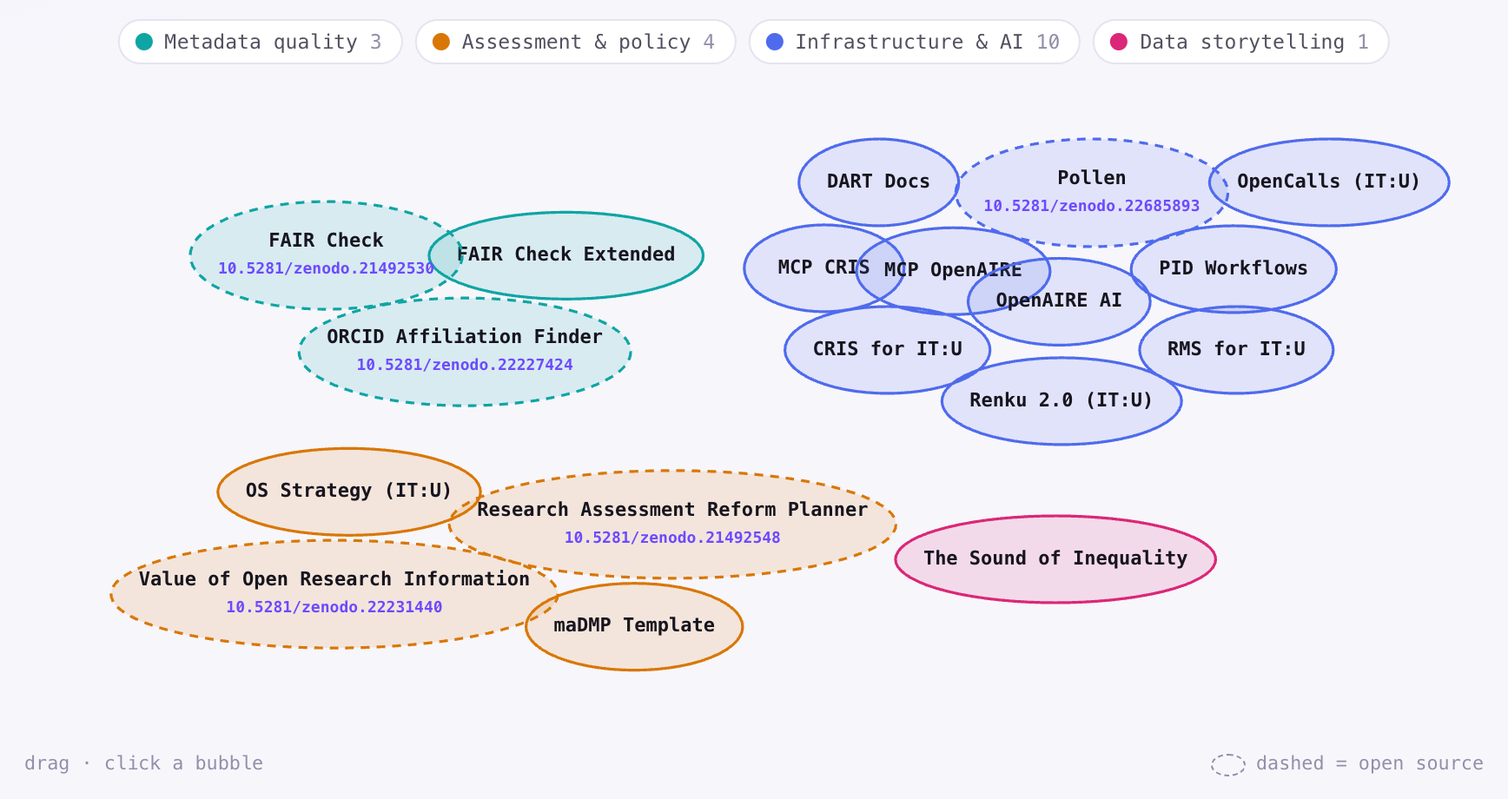
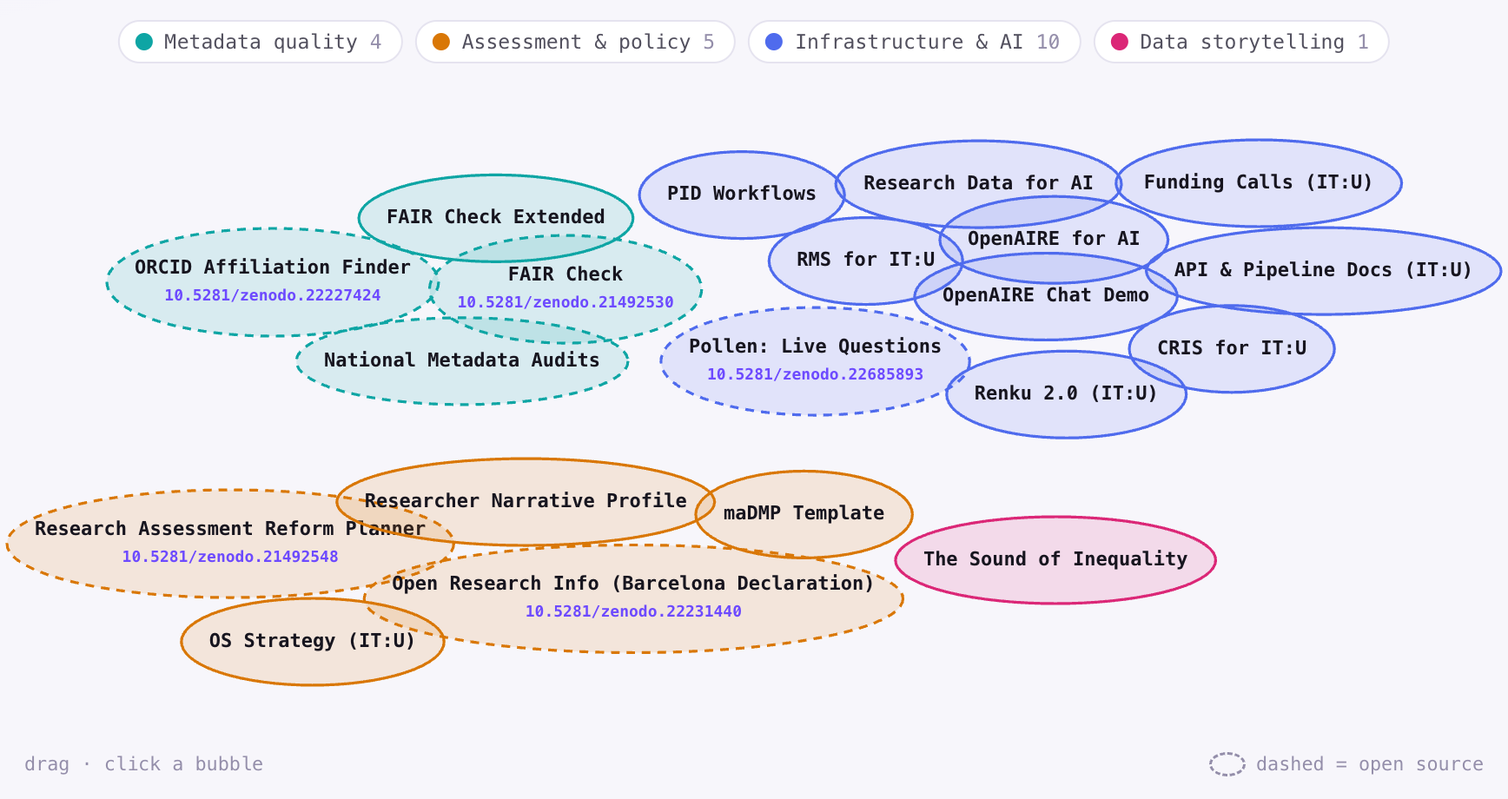
Tool descriptions checked claim by claim: orcid-adoption at 120 institutions; retraction figures as Retraction Watch flags; adapters, not any REST API; OpenAIRE product count; Sound of Inequality is about noise; Renku, DART and planner wording; cloud counts and screenshots

diff --git a/hub.js b/hub.js
@@ -31,22 +31,22 @@ const TAB_GROUPS={
 };
 const TOPICS = {
   metadata:{v:"--t-metadata", en:"Metadata quality", de:"Metadatenqualität", es:"Calidad de metadatos"},
-  assessment:{v:"--t-assessment", en:"Assessment & policy", de:"Bewertung & Politik", es:"Evaluación y política"},
+  assessment:{v:"--t-assessment", en:"Assessment & policy", de:"Bewertung & Forschungspolitik", es:"Evaluación y política"},
   infra:{v:"--t-infra", en:"Infrastructure & AI", de:"Infrastruktur & KI", es:"Infraestructura e IA"},
   story:{v:"--t-story", en:"Data storytelling", de:"Daten-Storytelling", es:"Narrativa de datos"},
 };
 const UI = {
-  en:{nav_menu:"Menu",nav_close:"Close menu",nav_sections:"Sections",cv:"Full CV →", apps_h:"Tools & experiments", apps_lead:"A cloud of live tools, grouped by topic. Drag them around; click one to open it.",
+  en:{nav_menu:"Menu",nav_close:"Close menu",nav_sections:"Sections",cv:"Full CV →", apps_h:"Tools & experiments", apps_lead:"Tools and projects, grouped by topic. Drag them around; click one for its description and, where there is one, its link.",
     grp_out_h:"Publications & talks", grp_path_h:"Background",
     hint:"drag · click a bubble", openmark:"dashed = open source", 
     by:"Built by", lic:"MIT-licensed, open source", src:"Source on GitHub",
     built:"A curated view of the same data behind the CV", open:"Open", nolink:"No public URL", list:"List", cloud:"Cloud"},
-  de:{nav_menu:"Menü",nav_close:"Menü schließen",nav_sections:"Abschnitte",cv:"Vollständiger Lebenslauf →", apps_h:"Werkzeuge & Experimente", apps_lead:"Eine Wolke aktiver Werkzeuge, nach Thema gruppiert. Ziehen; zum Öffnen klicken.",
+  de:{nav_menu:"Menü",nav_close:"Menü schließen",nav_sections:"Abschnitte",cv:"Vollständiger Lebenslauf →", apps_h:"Werkzeuge & Experimente", apps_lead:"Werkzeuge und Projekte, nach Thema gruppiert. Ziehen; anklicken für Beschreibung und, falls vorhanden, Link.",
     grp_out_h:"Publikationen & Vorträge", grp_path_h:"Werdegang",
     hint:"ziehen · Blase anklicken", openmark:"gestrichelt = quelloffen", 
     by:"Erstellt von", lic:"MIT-Lizenz, quelloffen", src:"Quellcode auf GitHub",
     built:"Eine kuratierte Ansicht derselben CV-Daten", open:"Öffnen", nolink:"Keine öffentliche URL", list:"Liste", cloud:"Wolke"},
-  es:{nav_menu:"Menú",nav_close:"Cerrar menú",nav_sections:"Secciones",cv:"CV completo →", apps_h:"Herramientas y experimentos", apps_lead:"Una nube de herramientas vivas, agrupadas por tópico. Arrástralas; haz clic para abrir.",
+  es:{nav_menu:"Menú",nav_close:"Cerrar menú",nav_sections:"Secciones",cv:"CV completo →", apps_h:"Herramientas y experimentos", apps_lead:"Herramientas y proyectos, agrupados por tema. Arrástralos; haz clic en uno para ver su descripción y, si lo tiene, su enlace.",
     grp_out_h:"Publicaciones y charlas", grp_path_h:"Trayectoria",
     hint:"arrastra · haz clic en una burbuja", openmark:"discontinuo = código abierto", 
     by:"Hecho por", lic:"Licencia MIT, código abierto", src:"Código en GitHub",

diff --git a/CV.de.md b/CV.de.md
@@ -194,12 +194,12 @@ Alle Werkzeuge und Dashboards, mit Quellen und Lizenzen: [rijdho.github.io/metau
 ### [Metaudits: Audits of Research Metadata](https://rijdho.github.io/metaudits-home/)
 *Active · 2026 · DataCite, Crossref, ORCID, OpenAlex*
 
-Eine Familie von Dashboards, die die Metadaten prüfen, die Forschung in den Registern hinterlässt, die sie durchläuft, alle über eine Startseite erreichbar: After Retraction (wie 60.921 zurückgezogene Artikel weiter zitiert werden), Debris with DOIs (Systemdateien, die in DataCite als Forschung registriert sind), Publisher Gap (was 14 Verlage bei Crossref hinterlegen und was OpenAlex ergänzt), Empty Accounts (Vollständigkeit von ORCID-Profilen an 95 Einrichtungen), SciELO Chile in Crossref, Beyond Articles (chilenische Ergebnisse, die keine Artikel sind) sowie nationale Prüfungen für Österreich und die Niederlande.
+Eine Familie von Dashboards, die die Metadaten prüfen, die Forschung in den Registern hinterlässt, die sie durchläuft, alle über eine Startseite erreichbar: After Retraction (Zitate auf 60.921 von Retraction Watch markierte Arbeiten, 46,9 % davon nach der Markierung), Debris with DOIs (Systemdateien, die in DataCite als Forschung registriert sind), Publisher Gap (was 14 Verlage bei Crossref hinterlegen und was OpenAlex ergänzt), ORCID-Profile an Mitglieds- und Nichtmitgliedseinrichtungen (Profilvollständigkeit an 120 Einrichtungen), SciELO Chile in Crossref, Beyond Articles (chilenische Ergebnisse, die keine Artikel sind) sowie nationale Prüfungen für Österreich und die Niederlande.
 
 ### [FAIR Metadata Check (Extended): FAIR Scoring for Any Repository](https://metaudits.rijdho.org/repo-metaudits/)
 *Active · 2026 · FAIR, OAI-PMH, DataCite, Custom API*
 
-Bewertet die Metadatenqualität digitaler Repositorien anhand der FAIR-Prinzipien. Das Werkzeug verbindet sich mit OAI-PMH-Endpunkten, DataCite-Datensätzen oder beliebigen REST-APIs (CSW, STAC, CKAN und weitere), erntet Metadaten und führt eine strukturierte Bewertung über 14 Unterprinzipien durch. Es klassifiziert persistente Identifikatoren, erkennt Lizenztypen, validiert kontrollierte Vokabulare (DCMI, ISO 639) und prüft die Einhaltung von Community-Standards. Enthält priorisierte Empfehlungen, exportierbare Berichte (CSV, JSON, TXT) und interaktive Visualisierungen der Repositoriumsstruktur. Die FAIR-Bewertungslogik läuft serverseitig auf Cloudflare Workers.
+Bewertet die Metadatenqualität digitaler Repositorien anhand der FAIR-Prinzipien. Das Werkzeug verbindet sich mit OAI-PMH-Endpunkten, DataCite-Datensätzen oder REST-APIs, für die es einen Adapter hat (STAC, CKAN, Dataverse, Copernicus CSW und weitere), erntet Metadaten und führt eine strukturierte Bewertung über 14 Unterprinzipien durch. Es klassifiziert persistente Identifikatoren, erkennt Lizenztypen, validiert kontrollierte Vokabulare (DCMI, ISO 639) und prüft die Einhaltung von Community-Standards. Enthält priorisierte Empfehlungen, exportierbare Berichte (CSV, JSON, TXT) und interaktive Visualisierungen der Repositoriumsstruktur. Die FAIR-Bewertungslogik läuft serverseitig auf Cloudflare Workers.
 
 ### [MCP CRIS Live](https://hub.docker.com/r/rijdho/mcp-cris-live)
 *Active · 2026 · MCP, Docker, Node.js, ORCID*
@@ -209,7 +209,7 @@ MCP-Server für Forschungsdaten in Echtzeit. Bietet Live-Zugriff auf maßgeblich
 ### [MCP CRIS Live: OpenAIRE](https://hub.docker.com/r/rijdho/mcp-cris-live-openaire)
 *Active · 2026 · MCP, Docker, Node.js, OpenAIRE*
 
-MCP-Server, der die OpenAIRE-Graph-API (über 100 Mio. offen zugängliche Forschungsergebnisse) für KI-Assistenten bereitstellt. Bietet 14 Werkzeuge zur Suche nach Publikationen, Datensätzen, Software, Organisationen, Projekten und Personen. Dockerisierter Node.js-Server mit In-Memory-Cache, Rate-Limiting und Wiederholungslogik. Als Ergänzung zu MCP CRIS Live mit Fokus auf Open-Science-Infrastruktur entwickelt.
+MCP-Server, der die OpenAIRE-Graph-API (über 100 Mio. Forschungsergebnisse) für KI-Assistenten bereitstellt. Bietet 14 Werkzeuge zur Suche nach Publikationen, Datensätzen, Software, Organisationen, Projekten und Personen. Dockerisierter Node.js-Server mit In-Memory-Cache, Rate-Limiting und Wiederholungslogik. Als Ergänzung zu MCP CRIS Live mit Fokus auf Open-Science-Infrastruktur entwickelt.
 
 ### OpenAIRE Research Assistant: Demo
 *Active · 2026 · Cloudflare Workers AI, LLM, Agentic AI, OpenAIRE*
@@ -217,9 +217,9 @@ MCP-Server, der die OpenAIRE-Graph-API (über 100 Mio. offen zugängliche Forsch
 Chat-Oberfläche, in der Cloudflare Workers AI (Llama 3.1 8B) die OpenAIRE-MCP-Werkzeuge in einer agentischen Schleife nutzt, um Forschungsfragen in natürlicher Sprache zu beantworten. Das Sprachmodell entscheidet, welche Werkzeuge aufgerufen werden, führt die OpenAIRE-Suchen aus und fasst die Ergebnisse lesbar zusammen. Vollständig auf kostenloser Cloudflare-Infrastruktur betrieben (Pages + Workers AI).
 
 ### [The Sound of Inequality: Data Disparities as Audio](https://sound-inequality.rijdho.org/)
-*Active · 2026 · Sonification, Data Viz, R, Accessibility*
+*Active · 2026 · Sonification, Data Viz, Accessibility*
 
-Sonifikationsprojekt, das Muster von Datenungleichheit hörbar macht. Es überführt statistische Disparitäten in Klangkompositionen, um Daten über die auditive Wahrnehmung zugänglich zu machen.
+Interaktiver Globus der Ungleichheit bei der Lärmbelastung in 117 Städten: Lärmpegel nach Tageszeit, ein Referenzklang, der auf den gemessenen Pegel jedes Ortes synthetisiert wird, Live-Audiostreams, wo vorhanden, und von Besucherinnen und Besuchern hinzugefügte Orte.
 
 ### PID Traceability Workflows
 *Active · 2025 · PIDs, Research Infrastructure, Python, API Integration*
@@ -254,12 +254,12 @@ Maschinenlesbare Datenmanagementplan-Vorlage mit gestuften Feldern und Horizon-E
 ### Renku 2.0 Deployment (IT:U)
 *Active · 2026 · Renku, Kubernetes, k3s, Podman*
 
-Installation von Renku 2.0 für reproduzierbare Rechenumgebungen, auf zwei Wegen statt einem: k3s mit gebündeltem containerd, wo die institutionelle VM es zulässt, und ein kind-Cluster mit Podman-Containern als Knoten, wo nicht. Renku wird als Helm-Chart ausgeliefert und nicht als Image, daher ist die Wahl dessen, was den Single-Node-Cluster bereitstellt, die Entscheidung, die vor der Bereitstellung der Maschine fallen muss, und sie ist neben den Bootstrap-Skripten entsprechend dokumentiert.
+Installation von Renku 2.0 für reproduzierbare Rechenumgebungen auf der institutionellen VM mit k3s und gebündeltem containerd, mit einer geskripteten Alternative (ein kind-Cluster mit Podman-Containern als Knoten), wo k3s nicht zulässig ist. Renku wird als Helm-Chart ausgeliefert und nicht als Image, daher ist die Wahl dessen, was den Single-Node-Cluster bereitstellt, die Entscheidung, die vor der Bereitstellung der Maschine fallen muss, und sie ist neben den Bootstrap-Skripten entsprechend dokumentiert.
 
 ### DART Documentation Generators
 *Active · 2026 · Static site generator, Python, OpenAPI, n8n*
 
-Zwei Generatoren, die je einen Quellordner pro Eintrag in eine einzige, in sich geschlossene zweisprachige Referenzseite überführen: einer für die API-Integrationen des Teams, gebaut aus bereinigten OpenAPI-Spezifikationen mit einem interaktiven Try-it-Panel je Endpunkt, und einer für die Automatisierungs-Pipelines, bei dem jede Pipeline ihre Workflow-Dateien, ihr eigenes Changelog und ihren Katalogeintrag im selben Ordner hält, damit beide nicht auseinanderlaufen. Neue Einträge kommen als ausgefüllte Vorlage über ein Issue-Formular, das automatisch geprüft wird und einen Pull Request eröffnet.
+Zwei Generatoren, die je einen Quellordner pro Eintrag in eine einzige, in sich geschlossene zweisprachige Referenzseite überführen: einer für die API-Integrationen des Teams, gebaut aus bereinigten OpenAPI-Spezifikationen mit einem interaktiven Try-it-Panel je Endpunkt, und einer für die Automatisierungs-Pipelines, bei dem jede Pipeline ihre Workflow-Dateien, ihr eigenes Changelog und ihren Katalogeintrag im selben Ordner hält, damit beide nicht auseinanderlaufen. Neue Einträge kommen als ausgefüllte Vorlage über ein Issue-Formular, das automatisch geprüft und in einen Branch überführt wird, aus dem eine Maintainerin oder ein Maintainer einen Pull Request eröffnet.
 
 ### [National Research Metadata Audits: Austria and the Netherlands](https://rijdho.github.io/national-research-metadata-audits/)
 *Active · 2026 · DataCite, ORCID, ROR, FAIR*
@@ -269,12 +269,12 @@ Land für Land die Metadatenvollständigkeit und die FAIR-Werte der Repositorien
 ### [FAIR Metadata Check: In-Browser Scoring](https://rijdho.github.io/fair-repo-audit/)
 *Active · 2026 · FAIR, OAI-PMH, DataCite, Open source*
 
-Offener, clientseitiger Zwilling von FAIR Metadata Check (Extended) – FAIR-Metadatenbewertung für DataCite- und OAI-PMH-Repositorien, vollständig im Browser. Das veröffentlichte Open-Source-Gegenstück zum gehosteten Evaluator.
+Eine Browser-Version von FAIR Metadata Check (Extended) mit veröffentlichtem Code: FAIR-Metadatenbewertung für DataCite- und OAI-PMH-Repositorien, vollständig im Browser.
 
 ### [Research Assessment Reform Planner: Self-Assessment and Plan](https://rijdho.github.io/coara-action-planner/)
 *Active · 2026 · CoARA, Research Assessment, Open source*
 
-Bewerten Sie Ihre Einrichtung selbst anhand der zehn CoARA-Verpflichtungen und erzeugen Sie einen priorisierten, bearbeitbaren Aktionsplan – vollständig im Browser. Der offene Zwilling des Reform-Assessment-Toolkits.
+Bewerten Sie Ihre Einrichtung selbst anhand der zehn CoARA-Verpflichtungen und erzeugen Sie einen priorisierten, bearbeitbaren Aktionsplan – vollständig im Browser. Es begann als offene Fassung des gehosteten Reform-Assessment-Toolkits und ist heute die gepflegte Version.
 
 ↔ [Research Assessment Reform Toolkit](https://metaudits.rijdho.org/reform-assessment/)
 
@@ -286,7 +286,7 @@ Geben Sie eine ORCID iD ein und erhalten Sie ein narratives Profil der Forscheri
 ### [The Value of Open Research Information (Barcelona WG7-TF2)](https://rijdho.github.io/barcelona-wg7-tf2/)
 *Draft · 2026 · Barcelona Declaration, Open Research Information, Taxonomy, Research policy*
 
-Beitrag zur Task Force 2 der Arbeitsgruppe 7 der Barcelona-Erklärung zu offener Forschungsinformation: neun Nutzen der Öffnung von Information über Forschung, geordnet in drei Achsen (Qualität und Vertrauen, Zusammenarbeit und Innovation, Wirkung und Relevanz) und als interaktiver Explorer statt als PDF veröffentlicht. Eine maschinenlesbare Taxonomie ist die einzige Quelle für Explorer, schriftliches Papier und Flusskarte, sodass die drei nicht auseinanderlaufen können. Leserinnen und Leser schlagen Änderungen und Beispiele über ein vorausgefülltes Issue-Formular vor, das in einem versionierten Register landet. Der neunte Nutzen, strategische Steuerung und institutionelle Autonomie, entstand daraus, reale Fallstudien an das Rahmenwerk zu halten, nicht aus erneutem Lesen der Definitionen. Arbeitsdokument in v0.2, auf Zenodo archiviert als Vorschlag an die Task Force, nicht als von ihr beschlossenes Rahmenwerk.
+Beitrag zur Task Force 2 der Arbeitsgruppe 7 der Barcelona-Erklärung zu offener Forschungsinformation: neun Nutzen der Öffnung von Information über Forschung, geordnet in drei Achsen (Qualität und Vertrauen, Zusammenarbeit und Innovation, Wirkung und Relevanz) und als interaktiver Explorer statt als PDF veröffentlicht. Eine maschinenlesbare Taxonomie ist die einzige Quelle für Explorer, schriftliches Papier und Flusskarte, sodass die drei nicht auseinanderlaufen können. Leserinnen und Leser schlagen Änderungen und Beispiele über ein vorausgefülltes Issue-Formular vor, das in einem versionierten Register landet. Der neunte Nutzen, strategische Steuerung und institutionelle Autonomie, kam hinzu, nachdem eine Fallstudie der TF1 an das Rahmenwerk gehalten wurde. Arbeitsdokument in v0.2, auf Zenodo archiviert als Vorschlag an die Task Force, nicht als von ihr beschlossenes Rahmenwerk.
 
 ### [ORCID Affiliation Finder: Institutional Researcher Discovery](https://rijdho.github.io/orcid-finder/)
 *Active · 2026 · ORCID, ROR, Researcher Discovery, Persistent Identifiers*
@@ -307,4 +307,4 @@ Live-Fragen während einer Lehrveranstaltung oder eines Workshops: Auswahlfragen
 - **DataCite Certified Core Training** (2024): Zertifizierung mit Schwerpunkt auf der Nutzung persistenter Identifikatoren (PIDs), Best Practices für Metadaten und der Anbindung von Repositorien an die DataCite-Infrastruktur.
 
 ---
-*Generiert aus data/cv.json · 2026-09-29*
+*Generiert aus data/cv.json · 2026-10-20*

diff --git a/CV.es.md b/CV.es.md
@@ -194,12 +194,12 @@ Todas las herramientas y dashboards, con sus fuentes y licencias: [rijdho.github
 ### [Metaudits: Audits of Research Metadata](https://rijdho.github.io/metaudits-home/)
 *Active · 2026 · DataCite, Crossref, ORCID, OpenAlex*
 
-Una familia de dashboards que auditan los metadatos que la investigación deja en los registros por los que pasa, todos desde una misma portada: After Retraction (cómo se siguen citando 60.921 artículos retractados), Debris with DOIs (archivos de sistema registrados como investigación en DataCite), Publisher Gap (lo que 14 editoriales depositan en Crossref frente a lo que agrega OpenAlex), Empty Accounts (completitud de perfiles ORCID en 95 instituciones), SciELO Chile in Crossref, Beyond Articles (resultados chilenos que no son artículos) y auditorías nacionales de Austria y los Países Bajos.
+Una familia de dashboards que auditan los metadatos que la investigación deja en los registros por los que pasa, todos desde una misma portada: After Retraction (citas a 60.921 trabajos marcados por Retraction Watch, el 46,9 % posteriores a la marca), Debris with DOIs (archivos de sistema registrados como investigación en DataCite), Publisher Gap (lo que 14 editoriales depositan en Crossref frente a lo que agrega OpenAlex), Perfiles ORCID en instituciones miembro y no miembro (completitud de perfiles en 120 instituciones), SciELO Chile in Crossref, Beyond Articles (resultados chilenos que no son artículos) y auditorías nacionales de Austria y los Países Bajos.
 
 ### [FAIR Metadata Check (Extended): FAIR Scoring for Any Repository](https://metaudits.rijdho.org/repo-metaudits/)
 *Active · 2026 · FAIR, OAI-PMH, DataCite, Custom API*
 
-Evalúa la calidad de metadatos de repositorios digitales frente a los Principios FAIR. Se conecta a endpoints OAI-PMH, registros DataCite o cualquier API REST personalizada (CSW, STAC, CKAN y más), cosecha metadatos y ejecuta una evaluación estructurada a través de 14 sub-principios. Clasifica identificadores persistentes, detecta tipos de licencia, valida vocabularios controlados (DCMI, ISO 639) y verifica cumplimiento de estándares comunitarios. Incluye recomendaciones priorizadas, reportes exportables (CSV, JSON, TXT) y visualizaciones interactivas de estructura de repositorio. El motor de evaluación FAIR se ejecuta del lado del servidor en Cloudflare Workers.
+Evalúa la calidad de metadatos de repositorios digitales frente a los Principios FAIR. Se conecta a endpoints OAI-PMH, registros DataCite o una API REST para la que tiene un adaptador (STAC, CKAN, Dataverse, Copernicus CSW y otras), cosecha metadatos y ejecuta una evaluación estructurada a través de 14 sub-principios. Clasifica identificadores persistentes, detecta tipos de licencia, valida vocabularios controlados (DCMI, ISO 639) y verifica cumplimiento de estándares comunitarios. Incluye recomendaciones priorizadas, reportes exportables (CSV, JSON, TXT) y visualizaciones interactivas de estructura de repositorio. El motor de evaluación FAIR se ejecuta del lado del servidor en Cloudflare Workers.
 
 ### [MCP CRIS Live](https://hub.docker.com/r/rijdho/mcp-cris-live)
 *Active · 2026 · MCP, Docker, Node.js, ORCID*
@@ -209,7 +209,7 @@ Servidor MCP para datos de investigación en tiempo real. Proporciona acceso en 
 ### [MCP CRIS Live: OpenAIRE](https://hub.docker.com/r/rijdho/mcp-cris-live-openaire)
 *Active · 2026 · MCP, Docker, Node.js, OpenAIRE*
 
-Servidor MCP que expone la API del OpenAIRE Graph (100M+ productos de investigación de acceso abierto) a asistentes de IA. Proporciona 14 herramientas para buscar publicaciones, datasets, software, organizaciones, proyectos y personas. Servidor Node.js dockerizado con caché en memoria, rate limiting y lógica de reintentos. Construido como complemento de MCP CRIS Live enfocado en infraestructura de ciencia abierta.
+Servidor MCP que expone la API del OpenAIRE Graph (más de 100 millones de productos de investigación) a asistentes de IA. Proporciona 14 herramientas para buscar publicaciones, datasets, software, organizaciones, proyectos y personas. Servidor Node.js dockerizado con caché en memoria, rate limiting y lógica de reintentos. Construido como complemento de MCP CRIS Live enfocado en infraestructura de ciencia abierta.
 
 ### OpenAIRE Research Assistant: Demo
 *Active · 2026 · Cloudflare Workers AI, LLM, Agentic AI, OpenAIRE*
@@ -217,9 +217,9 @@ Servidor MCP que expone la API del OpenAIRE Graph (100M+ productos de investigac
 Interfaz de chat donde Cloudflare Workers AI (Llama 3.1 8B) usa las herramientas MCP de OpenAIRE en un bucle agéntico para responder preguntas de investigación en lenguaje natural. El LLM decide qué herramientas llamar, ejecuta las búsquedas en OpenAIRE y sintetiza los resultados en una respuesta legible. Desplegado completamente en infraestructura gratuita de Cloudflare (Pages + Workers AI).
 
 ### [The Sound of Inequality: Data Disparities as Audio](https://sound-inequality.rijdho.org/)
-*Active · 2026 · Sonification, Data Viz, R, Accessibility*
+*Active · 2026 · Sonification, Data Viz, Accessibility*
 
-Proyecto de sonificación que explora patrones de desigualdad de datos a través de audio. Transforma disparidades estadísticas en composiciones sonoras para hacer los datos accesibles mediante percepción auditiva.
+Globo interactivo de la desigualdad en la exposición al ruido en 117 ciudades: niveles de ruido según la hora del día, un sonido de referencia sintetizado al nivel medido en cada lugar, transmisiones de audio en vivo donde las hay y lugares agregados por los visitantes.
 
 ### PID Traceability Workflows
 *Active · 2025 · PIDs, Research Infrastructure, Python, API Integration*
@@ -254,12 +254,12 @@ Plantilla de plan de gestión de datos accionable por máquina, con campos escal
 ### Renku 2.0 Deployment (IT:U)
 *Active · 2026 · Renku, Kubernetes, k3s, Podman*
 
-Despliegue de Renku 2.0 para entornos computacionales reproducibles, por dos rutas y no una: k3s con su containerd incluido donde la VM institucional lo permite, y un clúster kind cuyos nodos son contenedores Podman donde no. Renku se distribuye como chart de Helm y no como imagen, así que la elección de qué provee el clúster de un solo nodo es la decisión que hay que tomar antes de aprovisionar la máquina, y está documentada como tal junto a los scripts de arranque.
+Despliegue de Renku 2.0 para entornos computacionales reproducibles en la VM institucional con k3s y su containerd incluido, con una alternativa en scripts (un clúster kind cuyos nodos son contenedores Podman) donde k3s no está permitido. Renku se distribuye como chart de Helm y no como imagen, así que la elección de qué provee el clúster de un solo nodo es la decisión que hay que tomar antes de aprovisionar la máquina, y está documentada como tal junto a los scripts de arranque.
 
 ### DART Documentation Generators
 *Active · 2026 · Static site generator, Python, OpenAPI, n8n*
 
-Dos generadores que convierten una carpeta fuente por elemento en una única página de referencia bilingüe y autocontenida: uno para las integraciones de API del equipo, construido desde especificaciones OpenAPI saneadas y con un panel interactivo de prueba por endpoint, y otro para los pipelines de automatización, donde cada pipeline guarda sus archivos de flujo, su propio changelog y su entrada de catálogo en la misma carpeta para que ambos no se separen. Las entradas nuevas llegan como plantilla completada por un formulario de issue, que se revisa automáticamente y abre un pull request.
+Dos generadores que convierten una carpeta fuente por elemento en una única página de referencia bilingüe y autocontenida: uno para las integraciones de API del equipo, construido desde especificaciones OpenAPI saneadas y con un panel interactivo de prueba por endpoint, y otro para los pipelines de automatización, donde cada pipeline guarda sus archivos de flujo, su propio changelog y su entrada de catálogo en la misma carpeta para que ambos no se separen. Las entradas nuevas llegan como plantilla completada por un formulario de issue, que se revisa automáticamente y se convierte en una rama desde la que una persona mantenedora abre un pull request.
 
 ### [National Research Metadata Audits: Austria and the Netherlands](https://rijdho.github.io/national-research-metadata-audits/)
 *Active · 2026 · DataCite, ORCID, ROR, FAIR*
@@ -269,12 +269,12 @@ País por país, la completitud de los metadatos y los puntajes FAIR de los repo
 ### [FAIR Metadata Check: In-Browser Scoring](https://rijdho.github.io/fair-repo-audit/)
 *Active · 2026 · FAIR, OAI-PMH, DataCite, Open source*
 
-Gemelo abierto y del lado del cliente de FAIR Metadata Check (Extended): evaluación FAIR de metadatos para repositorios DataCite y OAI-PMH, ejecutándose enteramente en el navegador. La contraparte publicada y de código abierto del evaluador alojado.
+Una versión de FAIR Metadata Check (Extended) con el código publicado: evaluación FAIR de metadatos para repositorios DataCite y OAI-PMH, ejecutándose enteramente en el navegador.
 
 ### [Research Assessment Reform Planner: Self-Assessment and Plan](https://rijdho.github.io/coara-action-planner/)
 *Active · 2026 · CoARA, Research Assessment, Open source*
 
-Autoevalúa tu institución frente a los diez compromisos CoARA y genera un plan de acción priorizado y editable, enteramente en el navegador. El gemelo abierto del toolkit Reform Assessment.
+Autoevalúa tu institución frente a los diez compromisos CoARA y genera un plan de acción priorizado y editable, enteramente en el navegador. Comenzó como la versión abierta del toolkit Reform Assessment alojado y hoy es la versión que se mantiene.
 
 ↔ [Research Assessment Reform Toolkit](https://metaudits.rijdho.org/reform-assessment/)
 
@@ -286,7 +286,7 @@ Ingresa un ORCID iD y obtén un perfil narrativo del investigador para una evalu
 ### [The Value of Open Research Information (Barcelona WG7-TF2)](https://rijdho.github.io/barcelona-wg7-tf2/)
 *Draft · 2026 · Barcelona Declaration, Open Research Information, Taxonomy, Research policy*
 
-Contribución al Task Force 2 del Grupo de Trabajo 7 de la Declaración de Barcelona sobre Información Abierta de Investigación: nueve beneficios de abrir la información sobre la investigación, ordenados en tres ejes (calidad y confianza, colaboración e innovación, impacto y relevancia) y publicados como explorador interactivo en vez de PDF. Una taxonomía legible por máquina es la fuente única del explorador, el documento escrito y el mapa de flujo, de modo que los tres no pueden separarse. Quien lee propone cambios y ejemplos mediante un formulario de issue precargado que aterriza en un registro versionado. El noveno beneficio, dirección estratégica y autonomía institucional, salió de contrastar casos reales con el marco y no de releer las definiciones. Documento de trabajo en v0.2, archivado en Zenodo como propuesta al task force, no como marco acordado por él.
+Contribución al Task Force 2 del Grupo de Trabajo 7 de la Declaración de Barcelona sobre Información Abierta de Investigación: nueve beneficios de abrir la información sobre la investigación, ordenados en tres ejes (calidad y confianza, colaboración e innovación, impacto y relevancia) y publicados como explorador interactivo en vez de PDF. Una taxonomía legible por máquina es la fuente única del explorador, el documento escrito y el mapa de flujo, de modo que los tres no pueden separarse. Quien lee propone cambios y ejemplos mediante un formulario de issue precargado que aterriza en un registro versionado. El noveno beneficio, dirección estratégica y autonomía institucional, se agregó después de contrastar con el marco un caso de estudio del TF1. Documento de trabajo en v0.2, archivado en Zenodo como propuesta al task force, no como marco acordado por él.
 
 ### [ORCID Affiliation Finder: Institutional Researcher Discovery](https://rijdho.github.io/orcid-finder/)
 *Active · 2026 · ORCID, ROR, Researcher Discovery, Persistent Identifiers*
@@ -307,4 +307,4 @@ Preguntas en vivo durante una clase o un taller: opción múltiple, escalas de v
 - **DataCite Certified Core Training** (2024): Certificación enfocada en el uso de identificadores persistentes (PIDs), buenas prácticas de metadatos e integración de repositorios con la infraestructura de DataCite.
 
 ---
-*Generado desde data/cv.json · 2026-09-29*
+*Generado desde data/cv.json · 2026-10-20*

diff --git a/CV.en.md b/CV.en.md
@@ -194,12 +194,12 @@ All tools and dashboards, with their sources and licences: [rijdho.github.io/met
 ### [Metaudits: Audits of Research Metadata](https://rijdho.github.io/metaudits-home/)
 *Active · 2026 · DataCite, Crossref, ORCID, OpenAlex*
 
-A family of dashboards auditing the metadata research leaves in the registries it passes through, all reached from one front page: After Retraction (how 60,921 retracted articles keep being cited), Debris with DOIs (system files registered as research in DataCite), Publisher Gap (what 14 publishers deposit in Crossref against what OpenAlex adds), Empty Accounts (ORCID profile completeness at 95 institutions), SciELO Chile in Crossref, Beyond Articles (Chilean outputs that are not articles), and national audits of Austria and the Netherlands.
+A family of dashboards auditing the metadata research leaves in the registries it passes through, all reached from one front page: After Retraction (citations to 60,921 works flagged by Retraction Watch, 46.9% of them made after the flag), Debris with DOIs (system files registered as research in DataCite), Publisher Gap (what 14 publishers deposit in Crossref against what OpenAlex adds), ORCID profiles at member and non-member institutions (profile completeness at 120 institutions), SciELO Chile in Crossref, Beyond Articles (Chilean outputs that are not articles), and national audits of Austria and the Netherlands.
 
 ### [FAIR Metadata Check (Extended): FAIR Scoring for Any Repository](https://metaudits.rijdho.org/repo-metaudits/)
 *Active · 2026 · FAIR, OAI-PMH, DataCite, Custom API*
 
-Evaluates metadata quality of digital repositories against the FAIR Principles. Connects to OAI-PMH endpoints, DataCite records, or any custom REST API (CSW, STAC, CKAN, and more), harvests metadata, and runs a structured assessment across 14 sub-principles. Classifies persistent identifiers, detects license types, validates controlled vocabularies (DCMI, ISO 639), and checks community standards compliance. Includes prioritized recommendations, exportable reports (CSV, JSON, TXT), and interactive repository structure visualizations. The FAIR assessment engine runs server-side on Cloudflare Workers.
+Evaluates metadata quality of digital repositories against the FAIR Principles. Connects to OAI-PMH endpoints, DataCite records, or a REST API it has an adapter for (STAC, CKAN, Dataverse, Copernicus CSW and others), harvests metadata, and runs a structured assessment across 14 sub-principles. Classifies persistent identifiers, detects license types, validates controlled vocabularies (DCMI, ISO 639), and checks community standards compliance. Includes prioritized recommendations, exportable reports (CSV, JSON, TXT), and interactive repository structure visualizations. The FAIR assessment engine runs server-side on Cloudflare Workers.
 
 ### [MCP CRIS Live](https://hub.docker.com/r/rijdho/mcp-cris-live)
 *Active · 2026 · MCP, Docker, Node.js, ORCID*
@@ -209,7 +209,7 @@ MCP Server for real-time research data. Provides live access to authoritative ac
 ### [MCP CRIS Live: OpenAIRE](https://hub.docker.com/r/rijdho/mcp-cris-live-openaire)
 *Active · 2026 · MCP, Docker, Node.js, OpenAIRE*
 
-MCP server exposing the OpenAIRE Graph API (100M+ open access research products) to AI assistants. Provides 14 tools for searching publications, datasets, software, organizations, projects, and persons. Dockerized Node.js server with in-memory cache, rate limiting, and retry logic. Built as a companion to MCP CRIS Live focused on open science infrastructure.
+MCP server exposing the OpenAIRE Graph API (over 100 million research products) to AI assistants. Provides 14 tools for searching publications, datasets, software, organizations, projects, and persons. Dockerized Node.js server with in-memory cache, rate limiting, and retry logic. Built as a companion to MCP CRIS Live focused on open science infrastructure.
 
 ### OpenAIRE Research Assistant: Demo
 *Active · 2026 · Cloudflare Workers AI, LLM, Agentic AI, OpenAIRE*
@@ -217,9 +217,9 @@ MCP server exposing the OpenAIRE Graph API (100M+ open access research products)
 Chat interface where Cloudflare Workers AI (Llama 3.1 8B) uses the OpenAIRE MCP tools in an agentic loop to answer research questions in natural language. The LLM decides which tools to call, executes the OpenAIRE searches, and synthesizes the results into a readable response. Deployed entirely on free Cloudflare infrastructure (Pages + Workers AI).
 
 ### [The Sound of Inequality: Data Disparities as Audio](https://sound-inequality.rijdho.org/)
-*Active · 2026 · Sonification, Data Viz, R, Accessibility*
+*Active · 2026 · Sonification, Data Viz, Accessibility*
 
-Sonification project exploring data inequality patterns through audio. Transforms statistical disparities into sound compositions to make data accessible through auditory perception.
+Interactive globe of noise-pollution inequality in 117 cities: noise levels by time of day, a reference sound synthesised at each location's measured level, live audio streams where available, and locations added by visitors.
 
 ### PID Traceability Workflows
 *Active · 2025 · PIDs, Research Infrastructure, Python, API Integration*
@@ -254,12 +254,12 @@ Machine-actionable data management plan template with tiered fields and a Horizo
 ### Renku 2.0 Deployment (IT:U)
 *Active · 2026 · Renku, Kubernetes, k3s, Podman*
 
-Deployment of Renku 2.0 for reproducible computational environments, in two routes rather than one: k3s with its bundled containerd where the institutional VM permits it, and a kind cluster whose nodes are Podman containers where it does not. Renku ships as a Helm chart and not as an image, so the choice of what provides the single-node cluster is the decision that has to be taken before the machine is provisioned, and it is documented as such alongside the bootstrap scripts.
+Deployment of Renku 2.0 for reproducible computational environments on the institutional VM with k3s and its bundled containerd, with a scripted alternative (a kind cluster whose nodes are Podman containers) where k3s is not permitted. Renku ships as a Helm chart and not as an image, so the choice of what provides the single-node cluster is the decision that has to be taken before the machine is provisioned, and it is documented as such alongside the bootstrap scripts.
 
 ### DART Documentation Generators
 *Active · 2026 · Static site generator, Python, OpenAPI, n8n*
 
-Two generators that turn one source folder per item into a single self-contained bilingual reference page: one for the team's API integrations, built from sanitised OpenAPI specs with an interactive try-it panel per endpoint, and one for its automation pipelines, where each pipeline keeps its workflow files, its own changelog and its catalogue entry in the same folder so the two cannot drift apart. New entries arrive as a filled-in template through an issue form, which is screened automatically and opens a pull request.
+Two generators that turn one source folder per item into a single self-contained bilingual reference page: one for the team's API integrations, built from sanitised OpenAPI specs with an interactive try-it panel per endpoint, and one for its automation pipelines, where each pipeline keeps its workflow files, its own changelog and its catalogue entry in the same folder so the two cannot drift apart. New entries arrive as a filled-in template through an issue form, which is screened automatically and turned into a branch from which a maintainer opens a pull request.
 
 ### [National Research Metadata Audits: Austria and the Netherlands](https://rijdho.github.io/national-research-metadata-audits/)
 *Active · 2026 · DataCite, ORCID, ROR, FAIR*
@@ -269,12 +269,12 @@ Country by country, the metadata completeness and FAIR scores of the repositorie
 ### [FAIR Metadata Check: In-Browser Scoring](https://rijdho.github.io/fair-repo-audit/)
 *Active · 2026 · FAIR, OAI-PMH, DataCite, Open source*
 
-Open, client-side twin of FAIR Metadata Check (Extended): FAIR metadata scoring for DataCite and OAI-PMH repositories, running entirely in the browser. The published, open-source counterpart of the hosted evaluator.
+A browser version of FAIR Metadata Check (Extended), with its code published: FAIR metadata scoring for DataCite and OAI-PMH repositories, running entirely in the browser.
 
 ### [Research Assessment Reform Planner: Self-Assessment and Plan](https://rijdho.github.io/coara-action-planner/)
 *Active · 2026 · CoARA, Research Assessment, Open source*
 
-Self-assess your institution against the ten CoARA commitments and generate a prioritised, editable action plan, entirely in your browser. The open twin of the Reform Assessment toolkit.
+Self-assess your institution against the ten CoARA commitments and generate a prioritised, editable action plan, entirely in your browser. It began as the open twin of the hosted Reform Assessment toolkit and is now the maintained version.
 
 ↔ [Research Assessment Reform Toolkit](https://metaudits.rijdho.org/reform-assessment/)
 
@@ -286,7 +286,7 @@ Enter an ORCID iD and get a narrative profile of the researcher for assessment i
 ### [The Value of Open Research Information (Barcelona WG7-TF2)](https://rijdho.github.io/barcelona-wg7-tf2/)
 *Draft · 2026 · Barcelona Declaration, Open Research Information, Taxonomy, Research policy*
 
-Contribution to Task Force 2 of Working Group 7 of the Barcelona Declaration on Open Research Information: nine benefits of opening information about research, arranged in three axes (quality and trust, collaboration and innovation, impact and relevance) and published as an interactive explorer rather than a PDF. One machine-readable taxonomy is the single source for the explorer, the written brief and the flow map, so the three cannot drift apart. Readers propose changes and examples through a pre-filled issue form that lands in a versioned register. The ninth benefit, strategic steering and institutional autonomy, came out of placing real case studies against the framework rather than out of rereading definitions. Working document at v0.2, archived on Zenodo as a proposal put to the task force, not as a framework it has agreed.
+Contribution to Task Force 2 of Working Group 7 of the Barcelona Declaration on Open Research Information: nine benefits of opening information about research, arranged in three axes (quality and trust, collaboration and innovation, impact and relevance) and published as an interactive explorer rather than a PDF. One machine-readable taxonomy is the single source for the explorer, the written brief and the flow map, so the three cannot drift apart. Readers propose changes and examples through a pre-filled issue form that lands in a versioned register. The ninth benefit, strategic steering and institutional autonomy, was added after a TF1 case study was placed against the framework. Working document at v0.2, archived on Zenodo as a proposal put to the task force, not as a framework it has agreed.
 
 ### [ORCID Affiliation Finder: Institutional Researcher Discovery](https://rijdho.github.io/orcid-finder/)
 *Active · 2026 · ORCID, ROR, Researcher Discovery, Persistent Identifiers*
@@ -307,4 +307,4 @@ Live questions during a lecture or a workshop: multiple choice, rating scales, r
 - **DataCite Certified Core Training** (2024): Certification focused on the use of persistent identifiers (PIDs), metadata best practices, and repository integration with DataCite infrastructure.
 
 ---
-*Generated from data/cv.json · 2026-09-29*
+*Generated from data/cv.json · 2026-10-20*

diff --git a/README.md b/README.md
@@ -13,10 +13,10 @@ from this origin.
 Available in **English, German and Spanish** (auto-detected, switchable): interface and
 content both, including every long description.
 
-![The tool cloud: 18 ovals grouped into four colour-coded topics, Metadata quality 3,
-Assessment & policy 4, Infrastructure & AI 10, Data storytelling 1. Related projects touch
-rather than repel, so FAIR Metadata Check (Extended) sits against FAIR Metadata Check. A dashed outline marks an
-open GitHub twin, and a note in the corner says so. Five ovals carry a Zenodo concept DOI
+![The tool cloud: 20 ovals grouped into four colour-coded topics, Metadata quality 4,
+Assessment & policy 5, Infrastructure & AI 10, Data storytelling 1. Related projects touch
+rather than repel, so FAIR Metadata Check (Extended) sits against FAIR Metadata Check. A dashed outline marks a
+tool whose source is public on GitHub, and a note in the corner says so. Five ovals carry a Zenodo concept DOI
 under the name: FAIR Metadata Check 10.5281/zenodo.21492530, ORCID Affiliation Finder
 10.5281/zenodo.22227424, Research Assessment Reform Planner 10.5281/zenodo.21492548, Value of Open Research Information
 10.5281/zenodo.22231440 and Pollen 10.5281/zenodo.22685893.](docs/hub-cloud.png)
@@ -24,8 +24,8 @@ under the name: FAIR Metadata Check 10.5281/zenodo.21492530, ORCID Affiliation F
 ## The three views
 
 - **The hub** (`index.html`): two columns. The landing shows the name and headline with the
-  18 tools and experiments under them, as a cloud of ovals grouped by topic (drag, filter,
-  click to open the live app). The rail on the left opens the rest of the CV one section at a
+  20 tools and experiments under them, as a cloud of ovals grouped by topic (drag, filter,
+  click for a description and, where there is one, the link). The rail on the left opens the rest of the CV one section at a
   time: education, experience and training, then publications, writing and talks.
 ![The publications section opened from the rail: the rail on the left lists Background,
 Publications & talks and a link to Metaudits, with Publications highlighted. The main column
@@ -111,9 +111,7 @@ page and in the Markdown, so the address is not mistaken for a primary instituti
 
 **Linking two related projects in the cloud:** give each an `"id"` and list the other in
 `"related": ["<id>"]`, and the two bubbles then attract and touch. Add `"platform": "github"`
-to draw a dashed bubble (an open build published on GitHub Pages, vs. a solid bubble for a
-tool hosted on your own domain). This is how each hosted tool is paired with its open
-GitHub twin.
+to draw a dashed bubble, for a tool whose source is public on GitHub.
 
 **A DOI:** add `"doi": "10.5281/zenodo.…"` to any entry and its detail panel shows a DOI
 link under the title.
